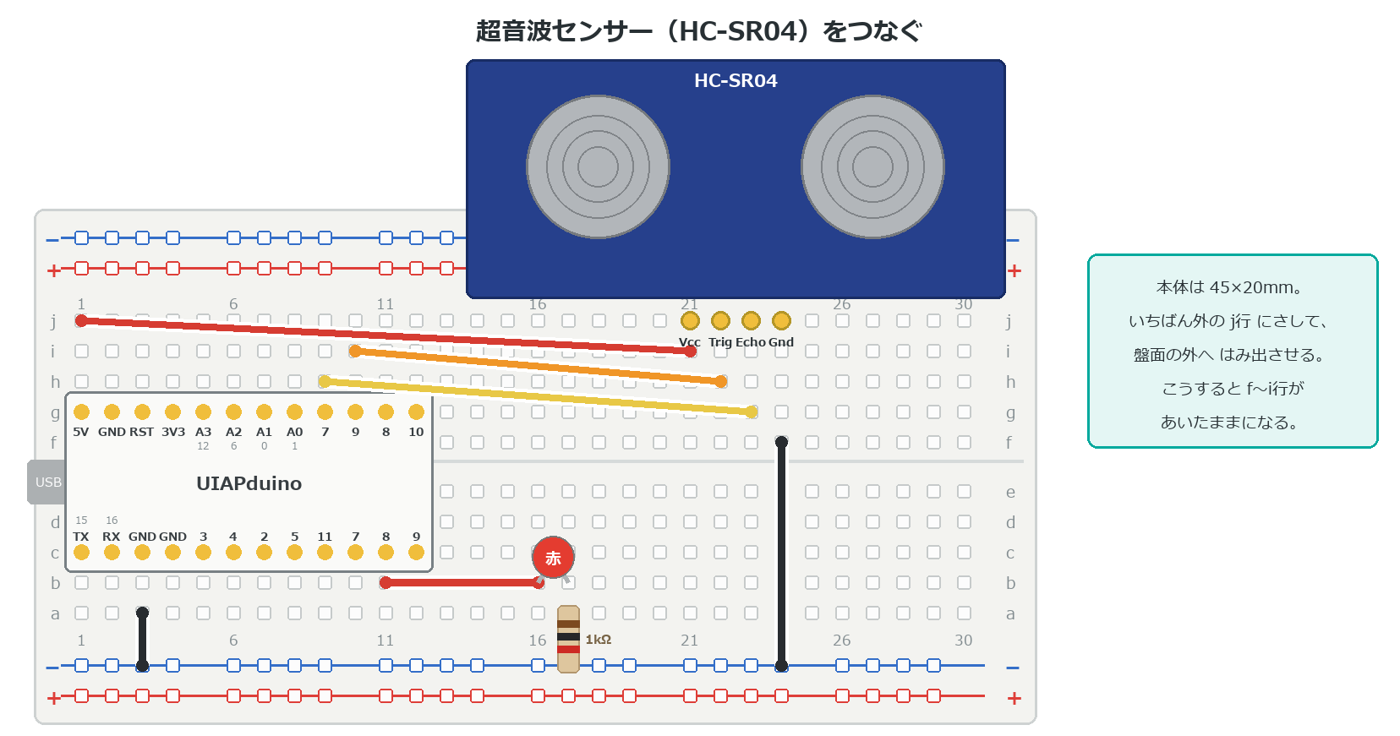
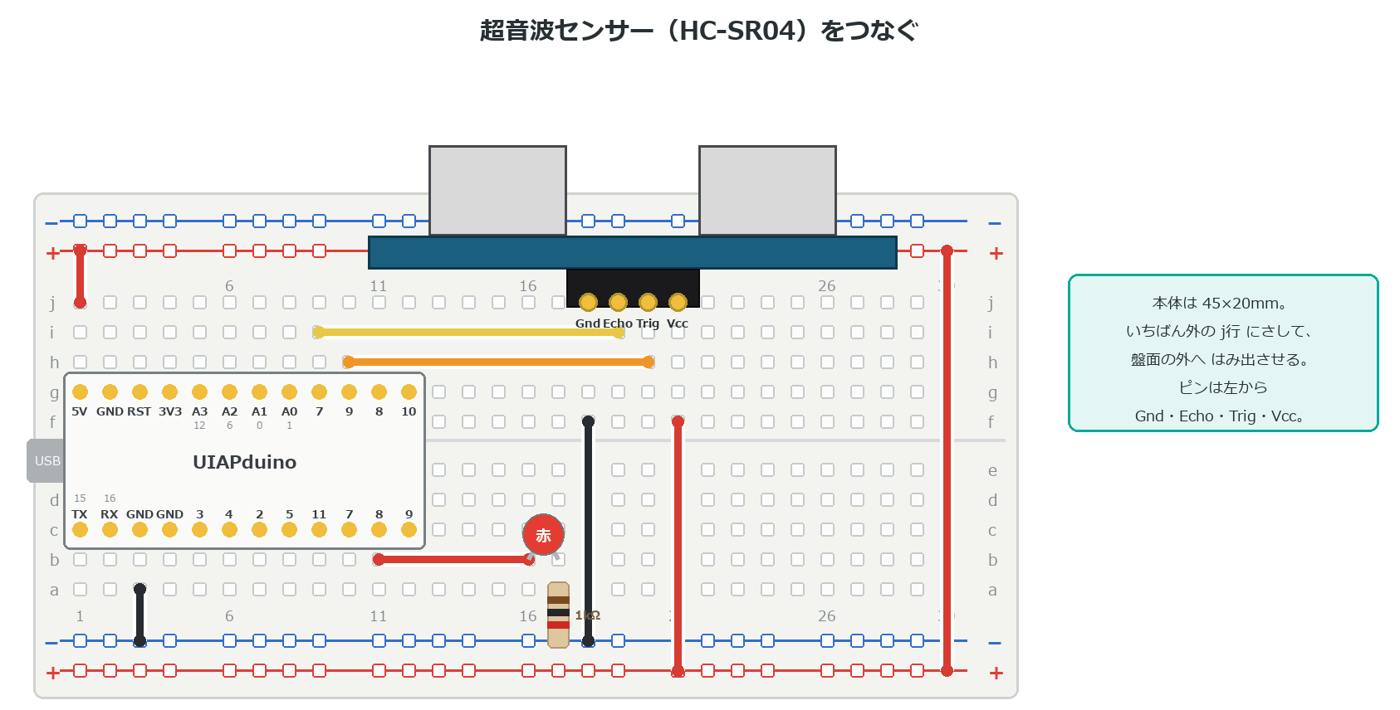
HC-SR04 を上から見た形に描き直し、ピン順を直した
ピンの並びが逆だった。端子名は部品の裏に書いてあるので、上から
見ると左右が逆になる。正しくは **左から Gnd・Echo・Trig・Vcc**。
これまで Vcc・Trig・Echo・Gnd で描いていたのは裏から見た並び。

形も実物どおりにした。横長の基板の上に丸いところが2つ、手前に
ピンヘッダが出ている。

配線も組み替えた。
- 合図は i行（Echo→7番）と h行（Trig→9番）に平行に流す
- 電源は本体が上のレールにかぶるので、f行から下のレールへ下ろす
- 上下の ＋レールは col 30 のジャンパーでつなぐ
- さす列を 21〜24 から 18〜21 にずらし、本体（45mm＝17.7列）が
  col 30 にかからないようにした

本文も「ピンは左から Gnd・Echo・Trig・Vcc」「名前は部品の裏に
書いてあるので上から見ると逆」を明記した。

Changed region(s): [[0.0, 0.031, 1.0, 0.9606]]

diff --git a/docs/e3_distance/index.html b/docs/e3_distance/index.html
@@ -71,17 +71,18 @@
 
 **USBを抜いてから**つなごう。
 
-1. センサーは **j行の 21〜24列**
-2. **Vcc**→**5V** ／ **Gnd**→**−レール**
-3. **Trig**→**9番** ／ **Echo**→**7番**
-4. LEDは **16・17列**（8番から）
+1. センサーは **j行の 18〜21列**
+2. ピンは左から **Gnd・Echo・Trig・Vcc**
+3. **Echo**→**7番** ／ **Trig**→**9番**
+4. **Vcc**→**＋レール** ／ **Gnd**→**−レール**
+5. LEDは **16・17列**（8番から）
 
-> ⚠ 本体が大きいので **いちばん外の j行**に。
-> 盤面の外にはみ出て、下の行があくよ。
+> ⚠ ピンの名前は**部品の裏**に書いてある。
+> 上から見ると、左右が逆に見えるので気をつけて。
 
 :::
 
-![j行にさすと本体は外へはみ出し、下の行があいたままになる](image/index/bb_sr04.png)
+![上から見た形。ピンは左から Gnd・Echo・Trig・Vcc](image/index/bb_sr04.png)
 
 ---
 

diff --git a/tools/fig_bb_sr04.py b/tools/fig_bb_sr04.py
@@ -1,11 +1,14 @@
 # -*- coding: utf-8 -*-
 """e3 超音波センサーの配線図（上から見た図）。
 
-HC-SR04 は 45×20mm。20mm ＝ 約8行ぶんあるので、どこにさしても本体が
-まわりの行をおおってしまう。そこで **いちばん外の j行** にさす。
-こうすると本体は盤面の外（上）へはみ出し、**f〜i行があいたまま**になるので、
-4本の線がどの穴に入るかがそのまま見える。
-LED は基本編と同じ 16・17列の外づけ。下半分はぜんぶあいている。
+HC-SR04 は 45×20mm。**いちばん外の j行**にさすと、本体が盤面の外へ
+はみ出すので、f〜i行があいたまま残る。
+
+上から見ると、横長の基板の上に丸いところが2つ、手前にピンヘッダが
+出ている形。**ピンは左から Gnd・Echo・Trig・Vcc**（部品の裏に書いて
+ある並びを、上から見ると逆に見える）。
+
+センサーの電源は上のレールが本体にかくれるので、**下のレール**へ回す。
 """
 import sys
 sys.path.insert(0, "tools")
@@ -13,54 +16,57 @@ sys.stdout.reconfigure(encoding="utf-8")
 from bb import *
 
 RED, ORANGE, YELLOW, BLACK = (214, 60, 50), (240, 150, 40), (232, 200, 70), (40, 44, 48)
-SCOL, OFF_Y, EXTRA_W = 21, 165, 390        # センサーの左はしの列 ／ 上のすきま ／ 右の余白
+PCB, HEAD, DRUM = (26, 95, 126), (26, 26, 28), (217, 217, 217)
+SCOL, OFF_Y, EXTRA_W = 18, 150, 420         # Gnd の列 ／ 上のすきま ／ 右の余白
 
 im0, d0 = canvas(W, H)
 board(d0)
 mcu(d0)
 
-# ── 合図と電源。上下の順（5V → Trig → Echo）をそろえて交差させない ──
-wire(d0, (1, "j"),  (SCOL,     "i"), RED)      # 5V    → Vcc
-wire(d0, (10, "i"), (SCOL + 1, "h"), ORANGE)   # 9番   → Trig
-wire(d0, (9, "h"),  (SCOL + 2, "g"), YELLOW)   # 7番   → Echo
-wire(d0, (SCOL + 3, "f"), (SCOL + 3, "-b"), BLACK)   # Gnd → 下の −レール
-wire(d0, (3, "a"),  (3, "-b"), BLACK)          # ボードのGND → 同じレール
+# ── 合図。行を分けて平行に走らせる ───────────────────
+wire(d0, (9, "i"),  (SCOL + 1, "i"), YELLOW)   # 7番 → Echo
+wire(d0, (10, "h"), (SCOL + 2, "h"), ORANGE)   # 9番 → Trig
 
-# ── LED（基本編と同じ 16・17列）。下半分はあいている ──────────
+# ── 電源。センサーがわは 下のレールへ下ろす ─────────────
+wire(d0, (1, "j"), (1, "+t"), RED)             # ボードの5V → 上の ＋レール
+wire(d0, (30, "+t"), (30, "+b"), RED)          # 上下の ＋レールをつなぐ
+wire(d0, (SCOL + 3, "f"), (SCOL + 3, "+b"), RED)    # Vcc → 下の ＋レール
+wire(d0, (SCOL, "f"), (SCOL, "-b"), BLACK)          # Gnd → 下の −レール
+wire(d0, (3, "a"), (3, "-b"), BLACK)           # ボードのGND → 同じレール
+
+# ── LED（基本編と同じ 16・17列）──────────────────────
 wire(d0, (11, "b"), (16, "b"), RED)            # 8番 → LED
 led(d0, 16, "b", note=False)
 resistor_v(d0, 17, "a", "-b")
 
-# ── 上にすきまを作って貼り、本体を j行から外へはみ出させて描く ──
+# ── 上にすきまを作って貼り、本体を j行から外へはみ出させる ──
 im, d = canvas(W + EXTRA_W, H + OFF_Y)
 im.paste(im0, (0, OFF_Y))
 center(d, (W + EXTRA_W) / 2, 16, "超音波センサー（HC-SR04）をつなぐ", bold(30), INK)
 
 hw = 8.85 * PITCH                              # 45mm ＝ 約17.7列
-h  = hw * 2 / 2.25                             # 20mm ＝ 約8行
 mx = (cx(SCOL) + cx(SCOL + 3)) / 2
-yj = cy("j") + OFF_Y                           # ずらしたあとの j行
-bot, top = yj - 26, yj - 26 - h                # 端子の すぐ上までにして、盤面を隠さない
-d.rounded_rectangle([mx - hw, top, mx + hw, bot], radius=10,
-                    fill=(38, 64, 140), outline=(24, 44, 100), width=3)
-for k in (0.245, 0.755):                       # 送信と受信の丸いところ
-    ccx, ccy, r = mx - hw + hw * 2 * k, top + h * 0.45, h * 0.30
-    d.ellipse([ccx - r, ccy - r, ccx + r, ccy + r], fill=(178, 182, 186),
-              outline=(118, 122, 126), width=3)
-    for q in (0.72, 0.5, 0.28):
-        d.ellipse([ccx - r * q, ccy - r * q, ccx + r * q, ccy + r * q],
-                  outline=(128, 132, 136), width=2)
-center(d, mx, top + 10, "HC-SR04", bold(21), WHITE)
-for i, lab in enumerate(("Vcc", "Trig", "Echo", "Gnd")):
+yj = cy("j") + OFF_Y
+hb, ht = yj + 6, yj - 40                       # ピンヘッダ（黒）
+pb, pt = ht, ht - 40                           # 基板（横長の帯）
+db, dt = pt, pt - 109                          # 丸いところ2つ
+
+for k in (0.245, 0.755):                       # 送信と受信
+    ccx = mx - hw + hw * 2 * k
+    d.rectangle([ccx - 83, dt, ccx + 83, db], fill=DRUM, outline=(70, 74, 78), width=3)
+d.rectangle([mx - hw, pt, mx + hw, pb], fill=PCB, outline=(14, 56, 78), width=3)
+d.rectangle([cx(SCOL) - 26, ht, cx(SCOL + 3) + 26, hb], fill=HEAD,
+            outline=(10, 10, 12), width=2)
+for i, lab in enumerate(("Gnd", "Echo", "Trig", "Vcc")):
     x = cx(SCOL + i)
     d.ellipse([x - 11, yj - 11, x + 11, yj + 11], fill=GOLD,
               outline=(180, 150, 40), width=3)
     center(d, x, yj + 16, lab, bold(14), INK)
 
-box(d, W + 20, 300, EXTRA_W - 46, 230, fill=SOFT, outline=TEAL)
+box(d, W + 20, 330, EXTRA_W - 46, 190, fill=SOFT, outline=TEAL)
 for i, ln in enumerate(["本体は 45×20mm。", "いちばん外の j行 にさして、",
-                        "盤面の外へ はみ出させる。", "こうすると f〜i行が",
-                        "あいたままになる。"]):
-    center(d, W + 20 + (EXTRA_W - 46) / 2, 326 + i * 40, ln, reg(19), INK)
+                        "盤面の外へ はみ出させる。", "ピンは左から",
+                        "Gnd・Echo・Trig・Vcc。"]):
+    center(d, W + 20 + (EXTRA_W - 46) / 2, 352 + i * 34, ln, reg(18), INK)
 save(im, "e3_distance", "bb_sr04.png")
 print("  比 %.2f" % ((W + EXTRA_W) / (H + OFF_Y)))

diff --git a/CURRICULUM.md b/CURRICULUM.md
@@ -440,7 +440,13 @@ micro:bit（センサー内蔵）／Raspberry Pi（カメラ・画面）。
 → **いちばん外の j行**にさす。こうすると本体は**盤面の外へはみ出す**ので、
    f〜i行があいたまま残り、4本の線がどの穴に入るか図で見える。
 
-- 配線は f〜i行（Vcc=i / Trig=h / Echo=g / Gnd=f）。上下の順をそろえて交差させない
+- **ピンは左から Gnd・Echo・Trig・Vcc**（2026-09-23 修正）。
+  端子名は部品の**裏**に書いてあるので、**上から見ると左右が逆**になる。
+  最初 Vcc・Trig・Echo・Gnd で描いていたのは、裏側から見た並びだった。
+- 列は **18〜21**。本体（45mm＝17.7列ぶん）が col 30 にかからないようにして、
+  上下の ＋レールをつなぐジャンパーを col 30 に通す余地を残した。
+- 合図は i行（Echo）と h行（Trig）に平行に流す。
+  電源はセンサー本体が上のレールにかぶるので、**f行から下のレールへ下ろす**
 - LED は基本編と同じ **16・17列**の外づけ（8番ピンから）。下半分はぜんぶあく
 - ⚠ 図は**上から見た形**にしてある。真横から描くと盤面に重ねられない
 - 作図は `tools/fig_bb_sr04.py`

diff --git a/content/e3_distance/index.md b/content/e3_distance/index.md
@@ -57,17 +57,18 @@ wip: 写真まち
 
 **USBを抜いてから**つなごう。
 
-1. センサーは **j行の 21〜24列**
-2. **Vcc**→**5V** ／ **Gnd**→**−レール**
-3. **Trig**→**9番** ／ **Echo**→**7番**
-4. LEDは **16・17列**（8番から）
+1. センサーは **j行の 18〜21列**
+2. ピンは左から **Gnd・Echo・Trig・Vcc**
+3. **Echo**→**7番** ／ **Trig**→**9番**
+4. **Vcc**→**＋レール** ／ **Gnd**→**−レール**
+5. LEDは **16・17列**（8番から）
 
-> ⚠ 本体が大きいので **いちばん外の j行**に。
-> 盤面の外にはみ出て、下の行があくよ。
+> ⚠ ピンの名前は**部品の裏**に書いてある。
+> 上から見ると、左右が逆に見えるので気をつけて。
 
 :::
 
-![j行にさすと本体は外へはみ出し、下の行があいたままになる](image/index/bb_sr04.png)
+![上から見た形。ピンは左から Gnd・Echo・Trig・Vcc](image/index/bb_sr04.png)
 
 ---
 
